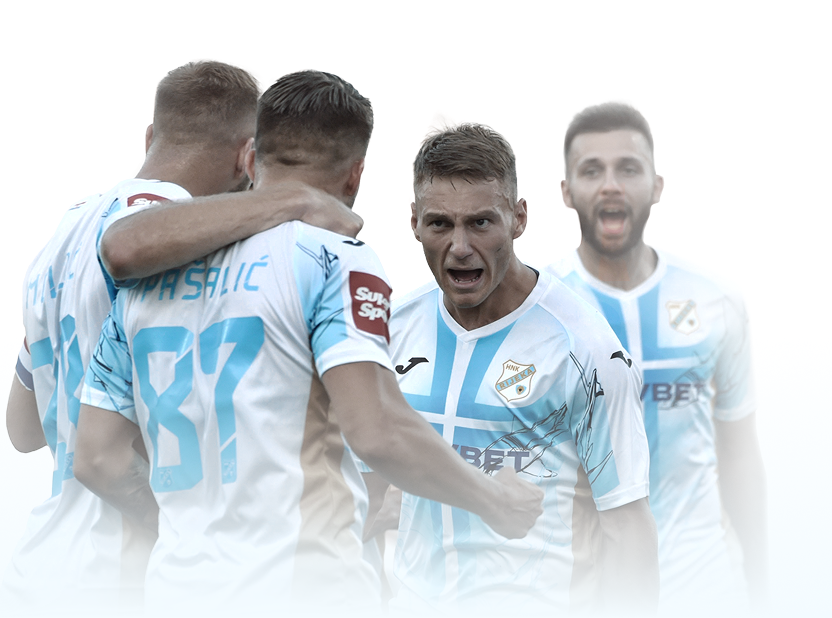
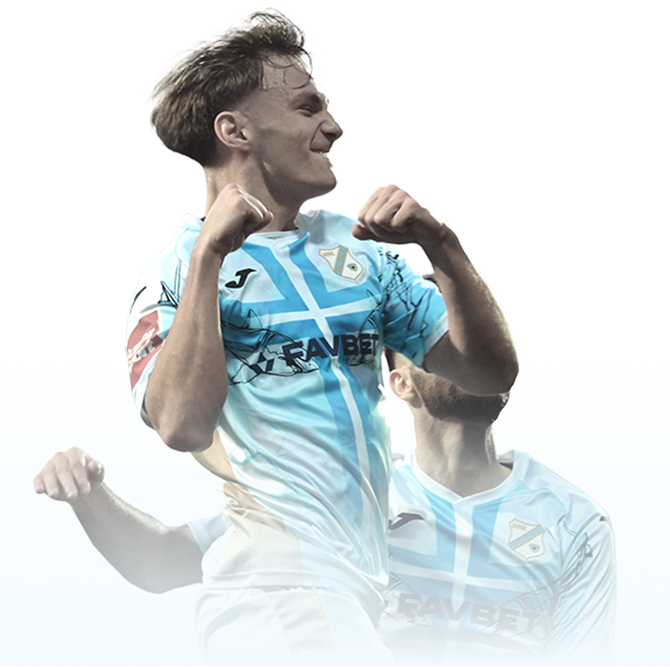
Homepage vizuali

diff --git a/pages/index.vue b/pages/index.vue
@@ -40,7 +40,7 @@ const carouselNew = ref()
     <div class="px-0 sm:px-5 bg-top bg-no-repeat bg-auto pt-32 lg:pt-72 pb-74 bg-home1 bg-players">
         <div class="container mx-auto xl:max-w-[1120px] relative z-[1] px-0 sm:px-5 xl:px-2">
             <div class="w-full lg:w-1/2">
-                <img src="~/assets/images/players-mobile.png" class="block lg:hidden pb-5">
+                <img src="~/assets/images/players-home.png" class="block lg:hidden pb-5">
                 <div class="px-5 sm:px-0">
                     <h1 class="font-bold font-saira text-h1-display text-neutralBlue-950">POGLEDAJ NOVE DRESOVE</h1>
                     <p class="mt-2 mb-6 font-normal text-gray-900 font-roboto text-body1">Prepoznatljiv dizajnerski potpis Juraja Zigmana <br class="hidden sm:block" /> ponovno donosi svježinu i inovaciju našim dresovima.</p>
@@ -291,7 +291,7 @@ const carouselNew = ref()
         position: absolute;
         content: url('/assets/images/players-home.png');
         right: 9%;
-        top: 20%;
+        top: 12%;
         z-index: 0;
     }
 
@@ -300,12 +300,13 @@ const carouselNew = ref()
     }
 
     @media(max-width:1650px){
-        .bg-players::after {content: url('/assets/images/players-laptop.png');}
+        .bg-players::after {
+             content: url('/assets/images/players-laptop.png');
+        }
     }
 
     @media(max-width:1100px){
         .bg-players::after {
-            content: url('/assets/images/players-tablet.png');
             top:27%;
         }
     }
